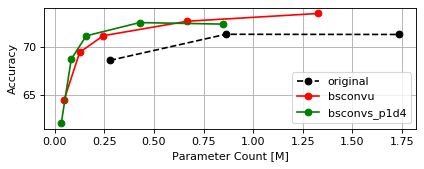
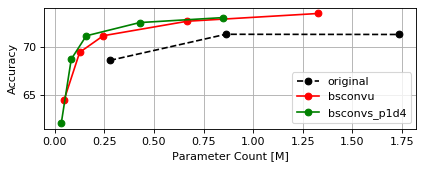
Add more result plots and tables for CIFAR100 (ResNets, WRNs)

Changed region(s): [[0.3373, 0.0888, 0.5519, 0.1775]]

diff --git a/README.md b/README.md
@@ -299,7 +299,7 @@ Results
 | `cifar_resnet56_bsconvs_p1d4`  |              68.72 |         0.08 |       15.37 |
 | `cifar_resnet110_bsconvs_p1d4` |              71.15 |         0.16 |       29.93 |
 | `cifar_resnet302_bsconvs_p1d4` |              72.53 |         0.43 |       81.70 |
-| `cifar_resnet602_bsconvs_p1d4` |              72.37 |         0.85 |      162.60 |
+| `cifar_resnet602_bsconvs_p1d4` |              73.05 |         0.85 |      162.60 |
 
 ### CIFAR100 - WideResNets (WRN-16)
 
@@ -343,6 +343,7 @@ Results
 | `cifar_wrn28_2`               |              73.38 |         1.48 |      215.80 |
 | `cifar_wrn28_3`               |              75.25 |         3.31 |      479.96 |
 | `cifar_wrn28_4`               |              76.85 |         5.87 |      848.44 |
+| `cifar_wrn28_6`               |              78.18 |        13.18 |     1898.42 |
 | `cifar_wrn28_8`               |              78.07 |        23.40 |     3365.72 |
 | `cifar_wrn28_10`              |              78.58 |        36.54 |     5250.36 |
 | `cifar_wrn28_12`              |              79.04 |        52.59 |     7552.34 |
@@ -351,6 +352,7 @@ Results
 | `cifar_wrn28_2_bsconvu`       |              71.78 |         0.20 |       34.09 |
 | `cifar_wrn28_3_bsconvu`       |              73.79 |         0.44 |       71.46 |
 | `cifar_wrn28_4_bsconvu`       |              75.29 |         0.75 |      122.45 |
+| `cifar_wrn28_6_bsconvu`       |              76.67 |         1.64 |      265.34 |
 | `cifar_wrn28_8_bsconvu`       |              77.15 |         2.87 |      462.76 |
 | `cifar_wrn28_10_bsconvu`      |              78.04 |         4.44 |      714.70 |
 | `cifar_wrn28_12_bsconvu`      |              78.30 |         6.36 |     1021.17 |
@@ -359,8 +361,9 @@ Results
 | `cifar_wrn28_2_bsconvs_p1d4`  |              71.55 |         0.13 |       21.48 |
 | `cifar_wrn28_3_bsconvs_p1d4`  |              74.42 |         0.26 |       42.25 |
 | `cifar_wrn28_4_bsconvs_p1d4`  |              76.22 |         0.43 |       69.84 |
+| `cifar_wrn28_6_bsconvs_p1d4`  |              78.18 |         0.92 |      145.47 |
 | `cifar_wrn28_8_bsconvs_p1d4`  |              79.49 |         1.58 |      248.36 |
-| `cifar_wrn28_10_bsconvs_p1d4` |              79.56 |         2.42 |      378.52 |
+| `cifar_wrn28_10_bsconvs_p1d4` |              80.09 |         2.42 |      378.52 |
 | `cifar_wrn28_12_bsconvs_p1d4` |              80.26 |         3.44 |      535.94 |
 
 ### CIFAR100 - WideResNets (WRN-40)
@@ -374,6 +377,7 @@ Results
 | `cifar_wrn40_2`               |              74.13 |         2.26 |      329.74 |
 | `cifar_wrn40_3`               |              75.70 |         5.06 |      735.79 |
 | `cifar_wrn40_4`               |              77.55 |         8.97 |     1302.81 |
+| `cifar_wrn40_6`               |              77.41 |        20.15 |     2919.70 |
 | `cifar_wrn40_8`               |              78.33 |        35.79 |     5180.42 |
 | `cifar_wrn40_10`              |              78.49 |        55.90 |     8084.96 |
 |                               |                    |              |             |
@@ -381,6 +385,7 @@ Results
 | `cifar_wrn40_2_bsconvu`       |              72.41 |         0.30 |       49.42 |
 | `cifar_wrn40_3_bsconvu`       |              74.91 |         0.64 |      103.90 |
 | `cifar_wrn40_4_bsconvu`       |              76.42 |         1.12 |      178.29 |
+| `cifar_wrn40_6_bsconvu`       |              77.12 |         2.44 |      386.85 |
 | `cifar_wrn40_8_bsconvu`       |              78.01 |         4.29 |      675.09 |
 | `cifar_wrn40_10_bsconvu`      |              78.45 |         6.64 |     1043.03 |
 |                               |                    |              |             |
@@ -388,6 +393,7 @@ Results
 | `cifar_wrn40_2_bsconvs_p1d4`  |              73.19 |         0.18 |       31.09 |
 | `cifar_wrn40_3_bsconvs_p1d4`  |              75.83 |         0.37 |       61.40 |
 | `cifar_wrn40_4_bsconvs_p1d4`  |              76.97 |         0.63 |      101.66 |
+| `cifar_wrn40_6_bsconvs_p1d4`  |              78.42 |         1.34 |      212.07 |
 | `cifar_wrn40_8_bsconvs_p1d4`  |              79.51 |         2.32 |      362.33 |
 | `cifar_wrn40_10_bsconvs_p1d4` |              80.21 |         3.56 |      552.44 |
 
